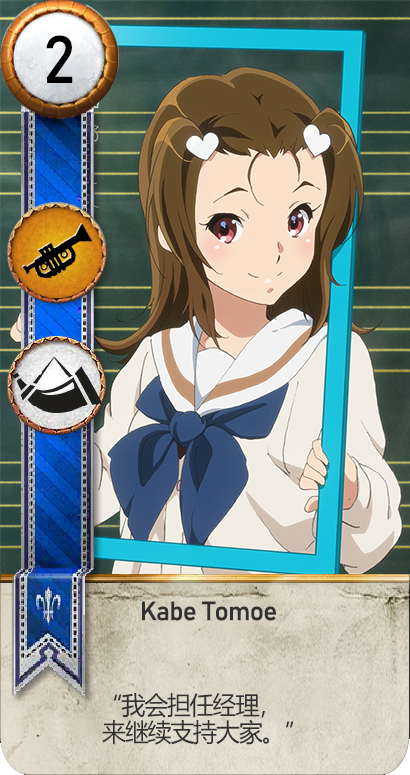
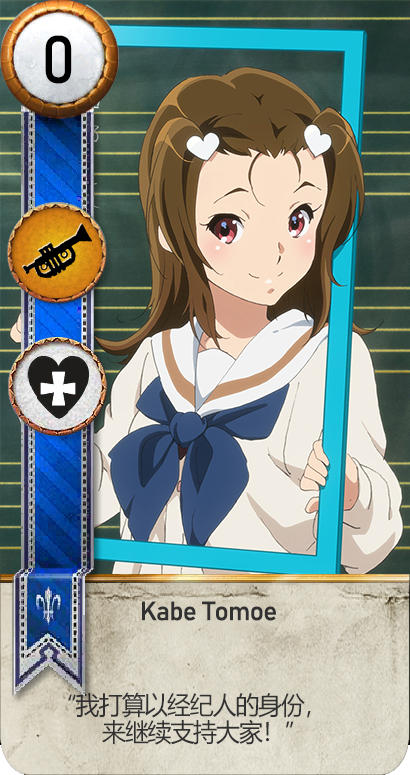
feat: new cards

diff --git a/assets/data/cards.js b/assets/data/cards.js
@@ -275,8 +275,8 @@ module.exports = {
   },
   "kabe_tomoe": {
     name: "加部友惠",
-    power: 2,
-    ability: "commanders_horn",
+    power: 0,
+    ability: "medic",
     img: "kabe_tomoe",
     faction: "kitauji",
     grade: 3,
@@ -388,6 +388,28 @@ module.exports = {
     rarity: 1,
     type: 1
   },
+  "takino_sayaka": {
+    name: "泷野沙耶香",
+    power: 4,
+    ability: "tight_bond",
+    bondType: "siblings",
+    img: "takino_sayaka",
+    faction: "kitauji",
+    rarity: 1,
+    grade: 3,
+    male: true,
+    type: 1
+  },
+  "takino_junichi": {
+    name: "泷野纯一",
+    power: 4,
+    ability: "tight_bond",
+    bondType: "siblings",
+    img: "takino_junichi",
+    faction: "kitauji",
+    rarity: 1,
+    type: 1
+  },
   "etou_kana": {
     name: "江藤香奈",
     power: 2,
@@ -478,6 +500,33 @@ module.exports = {
     faction: "kitauji",
     rarity: 2,
     type: 0
+  },
+  "ueda_hiyoko": {
+    name: "植田日和子",
+    power: 5,
+    ability: null,
+    img: "ueda_hiyoko",
+    faction: "kitauji",
+    rarity: 0,
+    type: 0
+  },
+  "fukui_sayaka": {
+    name: "福井沙耶香",
+    power: 4,
+    ability: null,
+    img: "fukui_sayaka",
+    faction: "kitauji",
+    rarity: 0,
+    type: 1
+  },
+  "yoshizawa_akiko": {
+    name: "吉泽秋子",
+    power: 4,
+    ability: null,
+    img: "yoshizawa_akiko",
+    faction: "kitauji",
+    rarity: 0,
+    type: 1
   },
   "kitayama_tairu": {
     name: "北山泰瑠",
@@ -585,6 +634,14 @@ module.exports = {
     power: -1,
     ability: "emreis_leader4",
     img: "tanaka_asuka",
+    faction: "neutral",
+    type: 3
+  },
+  "kasaki_nozomi_shiki": {
+    name: "伞木希美",
+    power: -1,
+    ability: "foltest_leader4",
+    img: "kasaki_nozomi",
     faction: "neutral",
     type: 3
   },
@@ -897,6 +954,42 @@ module.exports = {
     faction: "kumiko1",
     rarity: 2,
     type: 0
+  },
+  "ueda_hiyoko_1": {
+    name: "植田日和子",
+    power: 4,
+    ability: null,
+    img: "ueda_hiyoko",
+    faction: "kumiko1",
+    rarity: 0,
+    type: 0
+  },
+  "fukui_sayaka_1": {
+    name: "福井沙耶香",
+    power: 3,
+    ability: null,
+    img: "fukui_sayaka",
+    faction: "kumiko1",
+    rarity: 0,
+    type: 1
+  },
+  "yoshizawa_akiko_1": {
+    name: "吉泽秋子",
+    power: 3,
+    ability: null,
+    img: "yoshizawa_akiko",
+    faction: "kumiko1",
+    rarity: 0,
+    type: 1
+  },
+  "iwata_keina_1": {
+    name: "岩田慧菜",
+    power: 4,
+    ability: "medic",
+    img: "iwata_keina",
+    faction: "kumiko1",
+    rarity: 2,
+    type: 1
   },
   "tsukamoto_shuichi_1": {
     name: "冢本秀一",
@@ -1355,6 +1448,42 @@ module.exports = {
     faction: "kumiko1S2",
     rarity: 2,
     type: 0
+  },
+  "ueda_hiyoko_2": {
+    name: "植田日和子",
+    power: 4,
+    ability: null,
+    img: "ueda_hiyoko",
+    faction: "kumiko1S2",
+    rarity: 0,
+    type: 0
+  },
+  "fukui_sayaka_2": {
+    name: "福井沙耶香",
+    power: 3,
+    ability: null,
+    img: "fukui_sayaka",
+    faction: "kumiko1S2",
+    rarity: 0,
+    type: 1
+  },
+  "yoshizawa_akiko_2": {
+    name: "吉泽秋子",
+    power: 3,
+    ability: null,
+    img: "yoshizawa_akiko",
+    faction: "kumiko1S2",
+    rarity: 0,
+    type: 1
+  },
+  "iwata_keina_2": {
+    name: "岩田慧菜",
+    power: 4,
+    ability: "medic",
+    img: "iwata_keina",
+    faction: "kumiko1S2",
+    rarity: 2,
+    type: 1
   },
   "tsukamoto_shuichi_2": {
     name: "冢本秀一",

diff --git a/assets/data/deck.js b/assets/data/deck.js
@@ -32,6 +32,8 @@ module.exports = {
       "yoshikawa_yuko",
       "nakagawa_natsuki",
       "kohinata_yume",
+      "takino_sayaka",
+      "takino_junichi",
       "etou_kana",
       "hiraishi_narumi",
       "yamane_tsumiki",
@@ -41,6 +43,9 @@ module.exports = {
       "hakase_michiru",
       "takigawa_chikao",
       "takahisa_chieri",
+      "ueda_hiyoko",
+      "fukui_sayaka",
+      "yoshizawa_akiko",
       "kitayama_tairu",
       "hirao_sumiko",
       "ono_miyoko",
@@ -105,7 +110,6 @@ module.exports = {
       "taki_chihiro",
       "matsumoto_michie",
       "oumae_kumiko_shiki",
-      "tanaka_asuka_shiki",
 
       "sunfes",
       "wasure",
@@ -124,12 +128,10 @@ module.exports = {
       "maki_chikai",
       "suzuki_mirei",
       "kamaya_tsubame",
-      "kamaya_tsubame",
       "tsukinaga_motomu",
       "tsukamoto_shuichi",
       "kishibe_miru",
       "higashiura_motoko",
-      "suzuki_satsuki",
       "suzuki_satsuki",
       "oda_meiko",
       "takahashi_sari",
@@ -145,6 +147,9 @@ module.exports = {
       "ono_miyoko",
       "inoue_shirabe",
       "morimoto_michio",
+      "ueda_hiyoko",
+      "fukui_sayaka",
+      "yoshizawa_akiko",
 
       "taki_noboru",
       "taki_chihiro",
@@ -190,6 +195,10 @@ module.exports = {
       "sakai_masako_1",
       "takigawa_chikao_1",
       "takahisa_chieri_1",
+      "ueda_hiyoko_1",
+      "fukui_sayaka_1",
+      "yoshizawa_akiko_1",
+      "iwata_keina_1",
       "tsukamoto_shuichi_1",
       "maki_chikai_1",
       "morimoto_michio_1",
@@ -260,12 +269,12 @@ module.exports = {
       "ono_miyoko_1",
       "hirao_sumiko_1",
       "yoroizuka_mizore_1",
+      "iwata_keina_1",
 
       "taki_noboru",
       "taki_chihiro",
       "matsumoto_michie",
-      "oumae_kumiko_shiki",
-      "tanaka_asuka_shiki",
+      "kasaki_nozomi_shiki",
 
       "sunfes",
       "wasure",
@@ -297,9 +306,7 @@ module.exports = {
       "sakai_masako_1",
       "tsukamoto_shuichi_1",
       "maki_chikai_1",
-      "maki_chikai_1",
       "morimoto_michio_1",
-      "kamaya_tsubame_1",
       "kamaya_tsubame_1",
       "yoshikawa_yuko_1",
       "nakagawa_natsuki_1",
@@ -308,6 +315,9 @@ module.exports = {
       "shima_rie_1",
       "ono_miyoko_1",
       "kishibe_miru_1",
+      "ueda_hiyoko_1",
+      "fukui_sayaka_1",
+      "yoshizawa_akiko_1",
 
       "taki_noboru",
       "taki_chihiro",
@@ -352,6 +362,10 @@ module.exports = {
       "sakai_masako_2",
       "takigawa_chikao_2",
       "takahisa_chieri_2",
+      "ueda_hiyoko_2",
+      "fukui_sayaka_2",
+      "yoshizawa_akiko_2",
+      "iwata_keina_2",
       "tsukamoto_shuichi_2",
       "maki_chikai_2",
       "morimoto_michio_2",
@@ -374,7 +388,6 @@ module.exports = {
       "taki_chihiro",
       "matsumoto_michie",
       "oumae_kumiko_shiki",
-      "tanaka_asuka_shiki",
 
       "sunfes",
       "wasure",
@@ -420,6 +433,7 @@ module.exports = {
       "ono_miyoko_2",
       "yoroizuka_mizore_2",
       "kasaki_nozomi_2",
+      "iwata_keina_2",
 
       "taki_noboru",
       "taki_chihiro",
@@ -459,14 +473,15 @@ module.exports = {
       "maki_chikai_2",
       "morimoto_michio_2",
       "kamaya_tsubame_2",
-      "kamaya_tsubame_2",
       "yoshikawa_yuko_2",
       "nakagawa_natsuki_2",
-      "kabe_tomoe_2",
       "kabe_tomoe_2",
       "shima_rie_2",
       "ono_miyoko_2",
       "kishibe_miru_2",
+      "ueda_hiyoko_2",
+      "fukui_sayaka_2",
+      "yoshizawa_akiko_2",
 
       "taki_noboru",
       "taki_chihiro",
